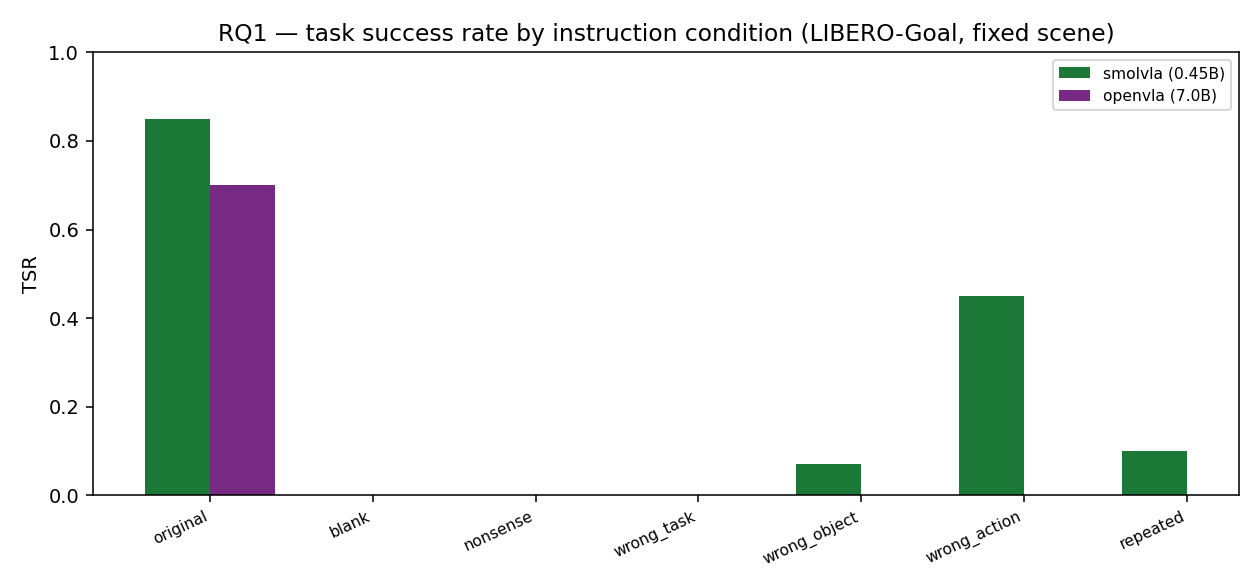
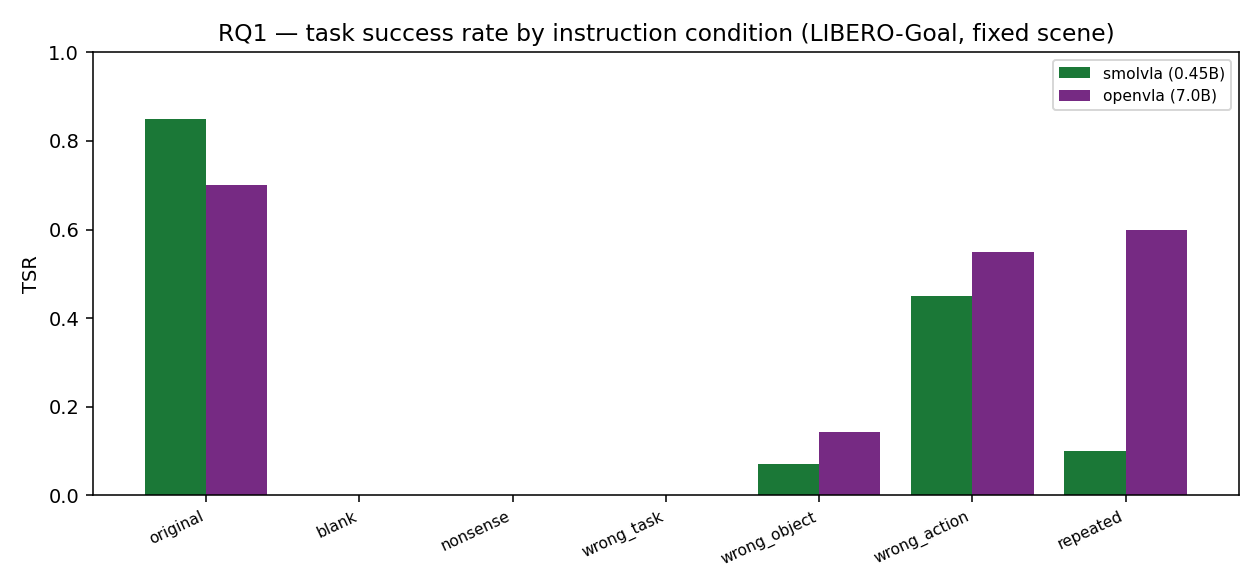
GATE 4: OpenVLA RQ1.2 full — object>>action binding holds at 7B; redundancy robustness scales
OpenVLA-7B/libero_goal (seed7, 2ep/task): wrong_object OAR=0.14, wrong_action
OAR=0.55, wrong_task OAR=0.00, repeated TSR=0.60. vs SmolVLA (0.07/0.45/0.00/0.10).
Findings: (1) object-noun >> action-verb causal binding at BOTH scales;
(2) benign-redundancy robustness scales up sharply (repeated 0.60 vs 0.10).
scene_fixed_check pass. report.md RQ1.3 cross-scale table; figures + MANIFEST
(7 clean openvla runs) refreshed.

diff --git a/report/report.md b/report/report.md
@@ -127,6 +127,28 @@ original/blank/nonsense/wrong_task; 0 mismatches). Node d4053 (H200).
 OpenVLA per-condition (n=20 each): original 0.70, blank 0.00, nonsense 0.00,
 wrong_task 0.00. CSS = (TSR_orig − TSR_cond)/max(TSR_orig, ε).
 
+**RQ1.2 across scale — misleading/redundant instructions (OAR = TSR under the
+condition = fraction that Ignored the bad instruction and did the true task):**
+
+| condition | SmolVLA 0.45B | OpenVLA 7B |
+|-----------|---------------|------------|
+| `wrong_object` (OAR, swap object noun, in-scene) | 0.07 (n=14) | 0.14 (n=14) |
+| `wrong_action` (OAR, swap verb) | 0.45 (n=20) | 0.55 (n=20) |
+| `wrong_task` (OAR, full other-task instr) | 0.00 (n=20) | 0.00 (n=20) |
+| `repeated` (TSR, instruction × 2) | **0.10** (n=20) | **0.60** (n=20) |
+
+Two cross-scale findings: **(1) the object-noun ≫ action-verb binding asymmetry
+holds at both scales** — swapping the *verb* leaves OAR high (0.45 / 0.55: the
+policy still does the true task, so the verb is only weakly causal), while swapping
+the *object noun* drops OAR to near zero (0.07 / 0.14: the noun is strongly
+causal). Object reference dominates action reference for both models. **(2)
+Robustness to benign redundancy scales up sharply** — the doubled instruction
+barely dents OpenVLA (0.60 vs its 0.70 original) but collapses SmolVLA
+(0.10 vs 0.85). The 0.45B model is brittle to a trivially redundant restatement;
+the 7B model shrugs it off. (`wrong_task` → OAR 0 at both scales corroborates the
+headline: neither model ignores a coherent wrong-task instruction to fall back on
+the scene.)
+
 **Answer:** causal reliance on language is **complete at both scales and does not
 change across a 16× parameter jump** — CSS(blank)=CSS(nonsense)=1.00 and
 OAR(wrong_task)=0.00 for *both* the 0.45B and the 7B model. Neither policy does
